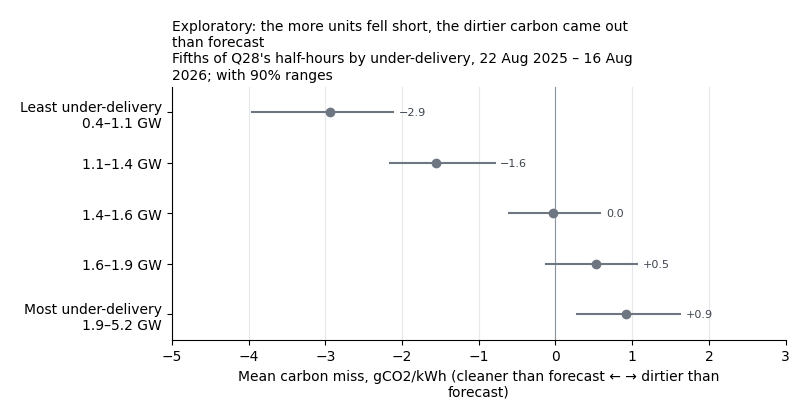
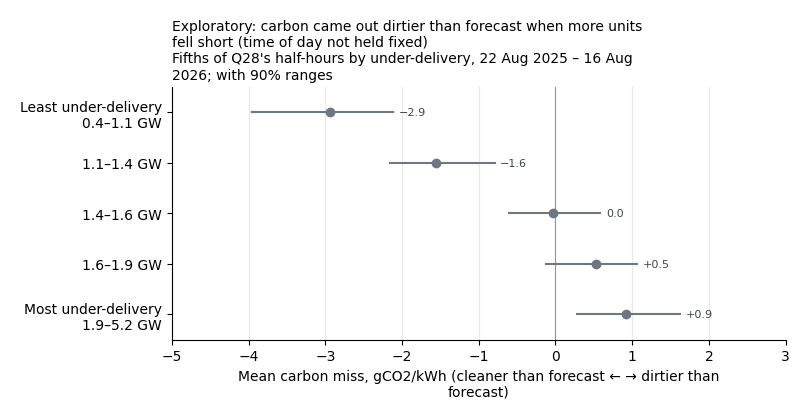
Results page: Q28 reverse block leads with its time-of-day caveat; scale and context links
The reverse chart's title and lead now say time of day is not held fixed and how the cut differs from Q28's answer. The slope gets a scale against the mean carbon intensity, the Q28 caption names INDO, and the Q3, Q28 and reverse scale figures link their context counts. A new test checks the committed specs and chart CSVs are what the script writes.

Changed region(s): [[0.216, 0.031, 0.8025, 0.1241]]

diff --git a/site/index.html b/site/index.html
@@ -399,7 +399,7 @@
     <p class="answer">Slightly less, with wide spreads (22 Aug 2025 – 26 Sep 2026). Wind, gas, nuclear and bioenergy usually produced a little less than planned: wind's median is <strong>0.3 MWh</strong> short per half-hour (about 0.6 MW), about 1.4% of a wind unit's mean plan of 22.1 MWh a half-hour. But a quarter of wind's half-hours fell over 2.9 MWh short and a quarter ran over 1 MWh above. Hydro, pumped storage and interconnectors have a median gap of zero: many of their half-hours show almost no gap, as when a unit planned to stay idle and did.</p>
     <figure>
       <div class="chart" id="q3-chart"></div>
-      <figcaption>22 August 2025 to 26 September 2026, on the latest settlement run held. Coal (closed units) is left out; interconnectors are links whose metered figure is an allocation against a plan of zero. Source: Elexon BMRS.</figcaption>
+      <figcaption>22 August 2025 to 26 September 2026, on the latest settlement run held. Coal (closed units) is left out; interconnectors are links whose metered figure is an allocation against a plan of zero. Source: Elexon BMRS. <a href="results/context_plan_per_unit_half_hour.csv">Context data</a></figcaption>
     </figure>
     <div class="sub" id="q22">
       <p><strong>Did later meter data change one week's fuel-group picture?</strong> <span class="tag">Q22</span> No: no group's median gap changed sign or order, and the biggest change was 0.03 MWh per unit per half-hour (bioenergy, 10–16 Aug 2026): its median gap moved from 0.78 to 0.75 MWh, about 4%. The test cannot see large corrections at single stations.</p>
@@ -619,16 +619,16 @@
     <p class="answer">No. Over 22 Aug 2025 – 16 Aug 2026, the fifth of half-hours with the biggest misses carried <strong>5% more</strong> under-delivery (90% range 3% to 8%) than the fifth with the smallest: a small but steady rise, far short of the 25% needed. Half-hours are sorted by how far the forecast missed, not which way, so this cannot say whether under-delivery makes the forecast too clean or too dirty, or by how much.</p>
     <figure>
       <div class="chart" id="q28-chart"></div>
-      <figcaption>17,278 half-hours, all units together. Mean under-delivery per half-hour, 22 Aug 2025 – 16 Aug 2026: 762 MWh in the smallest-miss fifth, 801 MWh in the largest, about 6% of mean national demand (13,069 MWh a half-hour). Source: Elexon BMRS and NESO Carbon Intensity API.</figcaption>
+      <figcaption>17,278 half-hours, all units together. Mean under-delivery per half-hour, 22 Aug 2025 – 16 Aug 2026: 762 MWh in the smallest-miss fifth, 801 MWh in the largest, about 6% of mean national demand from NESO's initial outturn (INDO), 13,069 MWh a half-hour. Source: Elexon BMRS and NESO Carbon Intensity API. <a href="results/context_demand.csv">Context data</a></figcaption>
     </figure>
     <p class="note">The reverse question, how much under-delivery moves the carbon forecast and in which direction, is registered as <a href="https://github.com/JayWatNorm/gridskew/blob/main/docs/research-questions.md#q31-when-units-unexplained-deviations-add-carbon-is-the-last-carbon-forecast-too-clean">Q31</a> and <a href="https://github.com/JayWatNorm/gridskew/blob/main/docs/research-questions.md#q32-when-wind-farms-fall-short-of-their-plans-is-the-last-carbon-forecast-too-clean-and-is-there-no-such-link-for-gas">Q32</a>, read on new data in 2027.</p>
     <!-- Q28-REVERSE-EXPLORATORY -->
     <section class="exploratory" aria-labelledby="q28-reverse-title">
       <h4 id="q28-reverse-title">Exploratory: the reverse direction</h4>
-      <p>Sorting the same half-hours by how much units under-delivered instead: the more they fell short, the dirtier carbon came out than forecast, about +2.8 g/kWh for each extra GW of under-delivery (90% range +2.1 to +3.5).</p>
+      <p>Q28 sorted by the size of the carbon miss and found little. This sorts the same half-hours by how much units under-delivered, and looks at the direction of the miss: the more they fell short, the dirtier carbon came out than forecast, about +2.8 g/kWh for each extra GW of under-delivery (90% range +2.1 to +3.5), about 2% of the mean intensity of 124 g/kWh. Time of day is not held fixed, and carbon misses differ by time of day (Q29), so this may partly reflect that.</p>
       <figure>
         <div class="chart" id="q28-reverse-chart"></div>
-        <figcaption>Q28's 17,278 half-hours, 22 Aug 2025 – 16 Aug 2026; under-delivery in GW is MWh per half-hour × 2 ÷ 1,000. Source: Elexon BMRS and NESO Carbon Intensity API. <a href="results/q28_reverse_exploratory.csv">Saved output</a> · <a href="results/q28_reverse_carbon_miss_by_under_delivery_fifth.csv">chart data</a></figcaption>
+        <figcaption>Q28's 17,278 half-hours, 22 Aug 2025 – 16 Aug 2026; under-delivery in GW is MWh per half-hour × 2 ÷ 1,000. Source: Elexon BMRS and NESO Carbon Intensity API. <a href="results/q28_reverse_exploratory.csv">Saved output</a> · <a href="results/q28_reverse_carbon_miss_by_under_delivery_fifth.csv">chart data</a> · <a href="results/context_carbon_intensity.csv">context data</a></figcaption>
       </figure>
       <p class="note">Exploratory: asked after Q28 was read, so not pre-registered. It shows association, not cause, and does not hold time of day fixed; Q31 and Q32 test this direction on new data.</p>
     </section>

diff --git a/tests/test_readme_charts.py b/tests/test_readme_charts.py
@@ -1610,16 +1610,26 @@ def test_q28s_exploratory_reverse_block_states_its_saved_figures_and_label():
     slope = [row for row in rows if row["section"] == "3" and row["line"] == "2"][0]
     read = [row for row in rows if row["section"] == "1"][0]
     dates = output_date_range(rows)
+    carbon = item_row(
+        saved_output_rows("context_carbon_intensity.csv"), "1", "all half-hours"
+    )
+    mean_intensity = carbon["mean_actual_g_per_kwh"]
     page = PAGE.read_text(encoding="utf-8")
     block = page.split('<section class="exploratory"', 1)[1].split("</section>", 1)[0]
 
     assert '<h4 id="q28-reverse-title">Exploratory: the reverse direction</h4>' in block
     assert (
-        "<p>Sorting the same half-hours by how much units under-delivered instead: "
-        "the more they fell short, the dirtier carbon came out than forecast, about "
-        f"{signed_tenths(slope['value'])} g/kWh for each extra GW of under-delivery "
+        "<p>Q28 sorted by the size of the carbon miss and found little. This sorts "
+        "the same half-hours by how much units under-delivered, and looks at the "
+        "direction of the miss: the more they fell short, the dirtier carbon came "
+        f"out than forecast, about {signed_tenths(slope['value'])} g/kWh for each "
+        "extra GW of under-delivery "
         f"(90% range {signed_tenths(slope['interval_low'])} to "
-        f"{signed_tenths(slope['interval_high'])}).</p>" in block
+        f"{signed_tenths(slope['interval_high'])}), about "
+        f"{percent_of(slope['value'], mean_intensity, 0)}% of the mean intensity of "
+        f"{whole(mean_intensity)} g/kWh. Time of day is not held fixed, and carbon "
+        "misses differ by time of day (Q29), so this may partly reflect that.</p>"
+        in block
     )
     assert (
         f"<figcaption>Q28's {int(read['half_hours']):,} half-hours, {dates};" in block
@@ -1773,8 +1783,8 @@ def test_each_scale_on_the_page_comes_from_its_context_count_or_output():
         f"carbon intensity of {whole(all_carbon['mean_actual_g_per_kwh'])} g/kWh,",
         f"801 MWh in the largest, about "
         f"{percent_of(largest_fifth[0], all_demand['mean_demand_mwh_per_half_hour'], 0)}% "
-        f"of mean national demand "
-        f"({int(all_demand['mean_demand_mwh_per_half_hour']):,} MWh a half-hour).",
+        "of mean national demand from NESO's initial outturn (INDO), "
+        f"{int(all_demand['mean_demand_mwh_per_half_hour']):,} MWh a half-hour.",
         f"in every whole month, against plans of {low} to {high}% of capacity;",
         f"16.4 TWh of under-delivery (about {percent_of(under_delivery, planned_total, 0)}% "
         "of the energy these units planned over almost the same dates)",
@@ -1807,6 +1817,17 @@ def test_each_scale_on_the_page_comes_from_its_context_count_or_output():
 
     assert missing == []
     assert 283_242 == int(metered["unit_periods"]) - int(cohort["unit_periods"])
+
+
+def test_each_scale_figure_links_the_context_count_it_divides_by():
+    page = PAGE.read_text(encoding="utf-8")
+    q3 = page.split('<article id="q3">', 1)[1].split("</article>", 1)[0]
+    q28 = page.split('<article id="q28">', 1)[1].split("</article>", 1)[0]
+    q28_main, q28_reverse = q28.split('<section class="exploratory"', 1)
+
+    assert '<a href="results/context_plan_per_unit_half_hour.csv">' in q3
+    assert '<a href="results/context_demand.csv">' in q28_main
+    assert '<a href="results/context_carbon_intensity.csv">' in q28_reverse
 
 
 def test_each_context_row_is_labelled_a_denominator_not_a_result():
@@ -2239,6 +2260,30 @@ def test_every_local_link_and_chart_on_the_page_is_a_shipped_file():
         "results/q2_moved_energy_by_unit_type.vl.json",
     ]
     assert not_shipped([*local_targets(page_tags()), *specs]) == []
+
+
+def test_the_committed_specs_and_chart_csvs_are_what_the_script_writes(tmp_path):
+    # The saved outputs are the committed CSVs without their attribution line.
+    # PNGs are left out: their pixels depend on the platform's fonts.
+    results = REPOSITORY / "docs" / "results"
+    saved = tmp_path / "saved"
+    saved.mkdir()
+    for committed in results.glob("*.csv"):
+        text = committed.read_text(encoding="utf-8")
+        if text.startswith("# "):
+            text = text.split("\n", 1)[1]
+        (saved / committed.name).write_text(text, encoding="utf-8")
+
+    written = tmp_path / "written"
+    write_charts(saved, written)
+
+    stale = []
+    for path in sorted(written.iterdir()):
+        if path.suffix == ".png":
+            continue
+        if path.read_bytes() != (results / path.name).read_bytes():
+            stale.append(path.name)
+    assert stale == []
 
 
 def test_the_page_shows_no_figure_with_four_or_more_decimals():

diff --git a/scripts/readme_charts.py b/scripts/readme_charts.py
@@ -314,7 +314,8 @@ Q25_TITLE = (
 )
 Q28_TITLE = "Bigger carbon misses came with slightly more under-delivery, not 25% more"
 Q28_REVERSE_TITLE = (
-    "Exploratory: the more units fell short, the dirtier carbon came out than forecast"
+    "Exploratory: carbon came out dirtier than forecast when more units fell short "
+    "(time of day not held fixed)"
 )
 Q29_TIME_TITLE = "Afternoons came out dirtier than forecast, evenings cleaner"
 Q29_MONTH_TITLE = (
